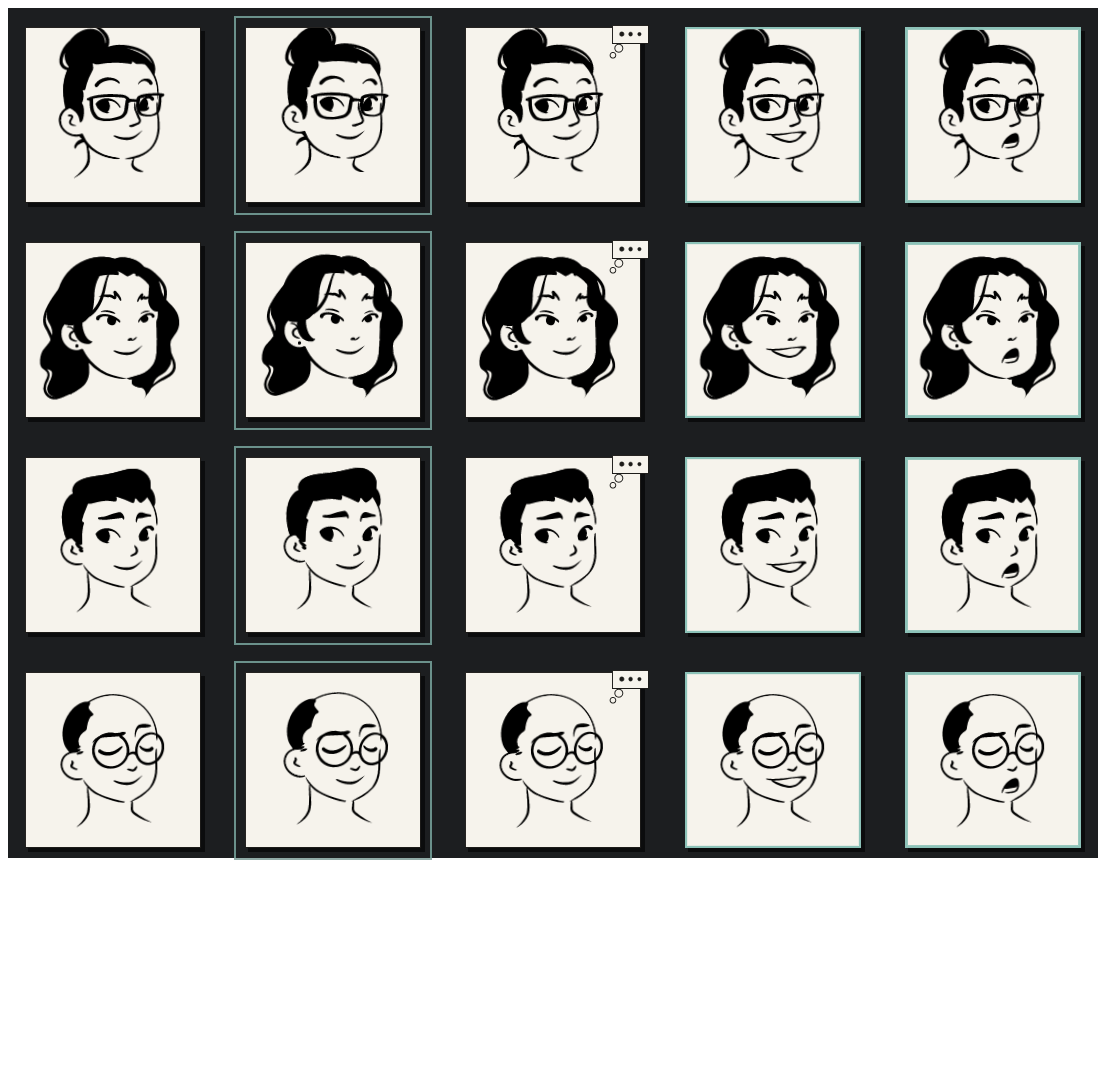
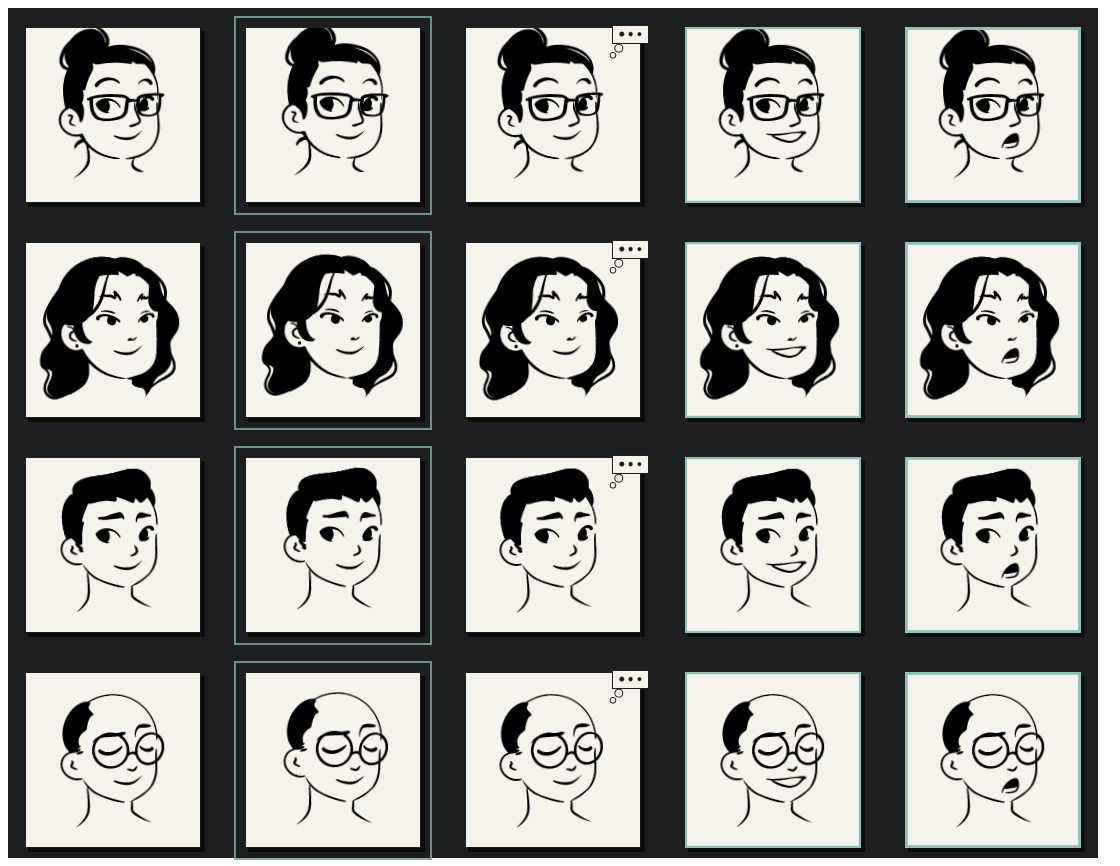
docs: crop the teachers screenshot to the four teachers

diff --git a/crates/ui/src/snapshots.rs b/crates/ui/src/snapshots.rs
@@ -270,7 +270,7 @@ fn avatar_states() {
         (LessonPhase::Speaking, 0.9, 0.0),
     ];
     let mut harness = Harness::builder()
-        .with_size([1120.0, 1080.0])
+        .with_size([1120.0, 866.0])
         .build_ui(move |ui| {
             crate::theme::apply(ui.ctx());
             egui_extras::install_image_loaders(ui.ctx());
